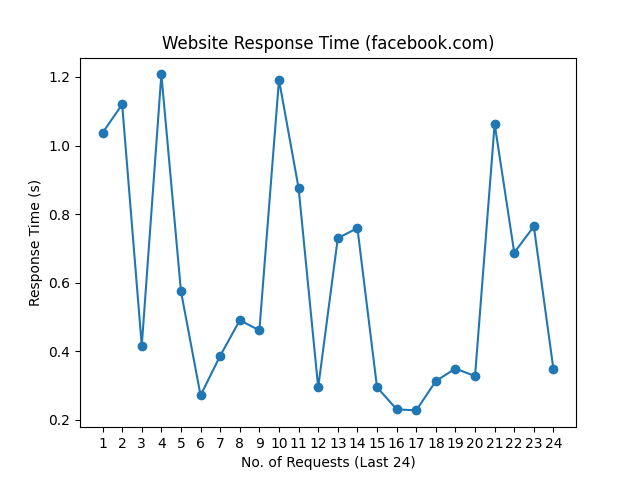
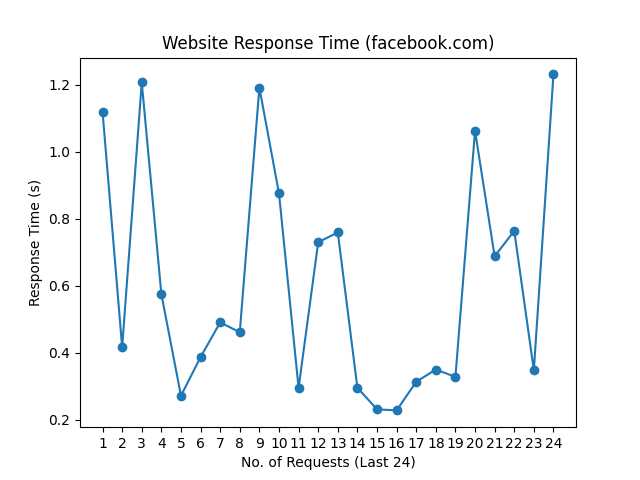
update README.md, history and graph

diff --git a/README.md b/README.md
@@ -1,10 +1,10 @@
 # Web Monitoring
 
-Last Checked: 23/10/2024 08:20
+Last Checked: 24/10/2024 08:20
 
 | Website | Response Time (s) | Status | Avg Uptime (%) |
 |---------|-------------------|--------|----------------|
 | www.thiswebsiteisdown.net | 0 <br> <img src="graph/thiswebsiteisdown.net.png" alt="Graph" width="200" height="200">  | ❌ Down | 0.00 |
-| www.netflix.com | 1.248849 <br> <img src="graph/netflix.com.png" alt="Graph" width="200" height="200">  | ✅ Up | 100.00 |
-| www.google.com | 0.073538 <br> <img src="graph/google.com.png" alt="Graph" width="200" height="200">  | ✅ Up | 100.00 |
-| www.facebook.com | 0.347287 <br> <img src="graph/facebook.com.png" alt="Graph" width="200" height="200">  | ✅ Up | 100.00 |
+| www.netflix.com | 1.250632 <br> <img src="graph/netflix.com.png" alt="Graph" width="200" height="200">  | ✅ Up | 100.00 |
+| www.google.com | 0.138345 <br> <img src="graph/google.com.png" alt="Graph" width="200" height="200">  | ✅ Up | 100.00 |
+| www.facebook.com | 1.231315 <br> <img src="graph/facebook.com.png" alt="Graph" width="200" height="200">  | ✅ Up | 100.00 |
